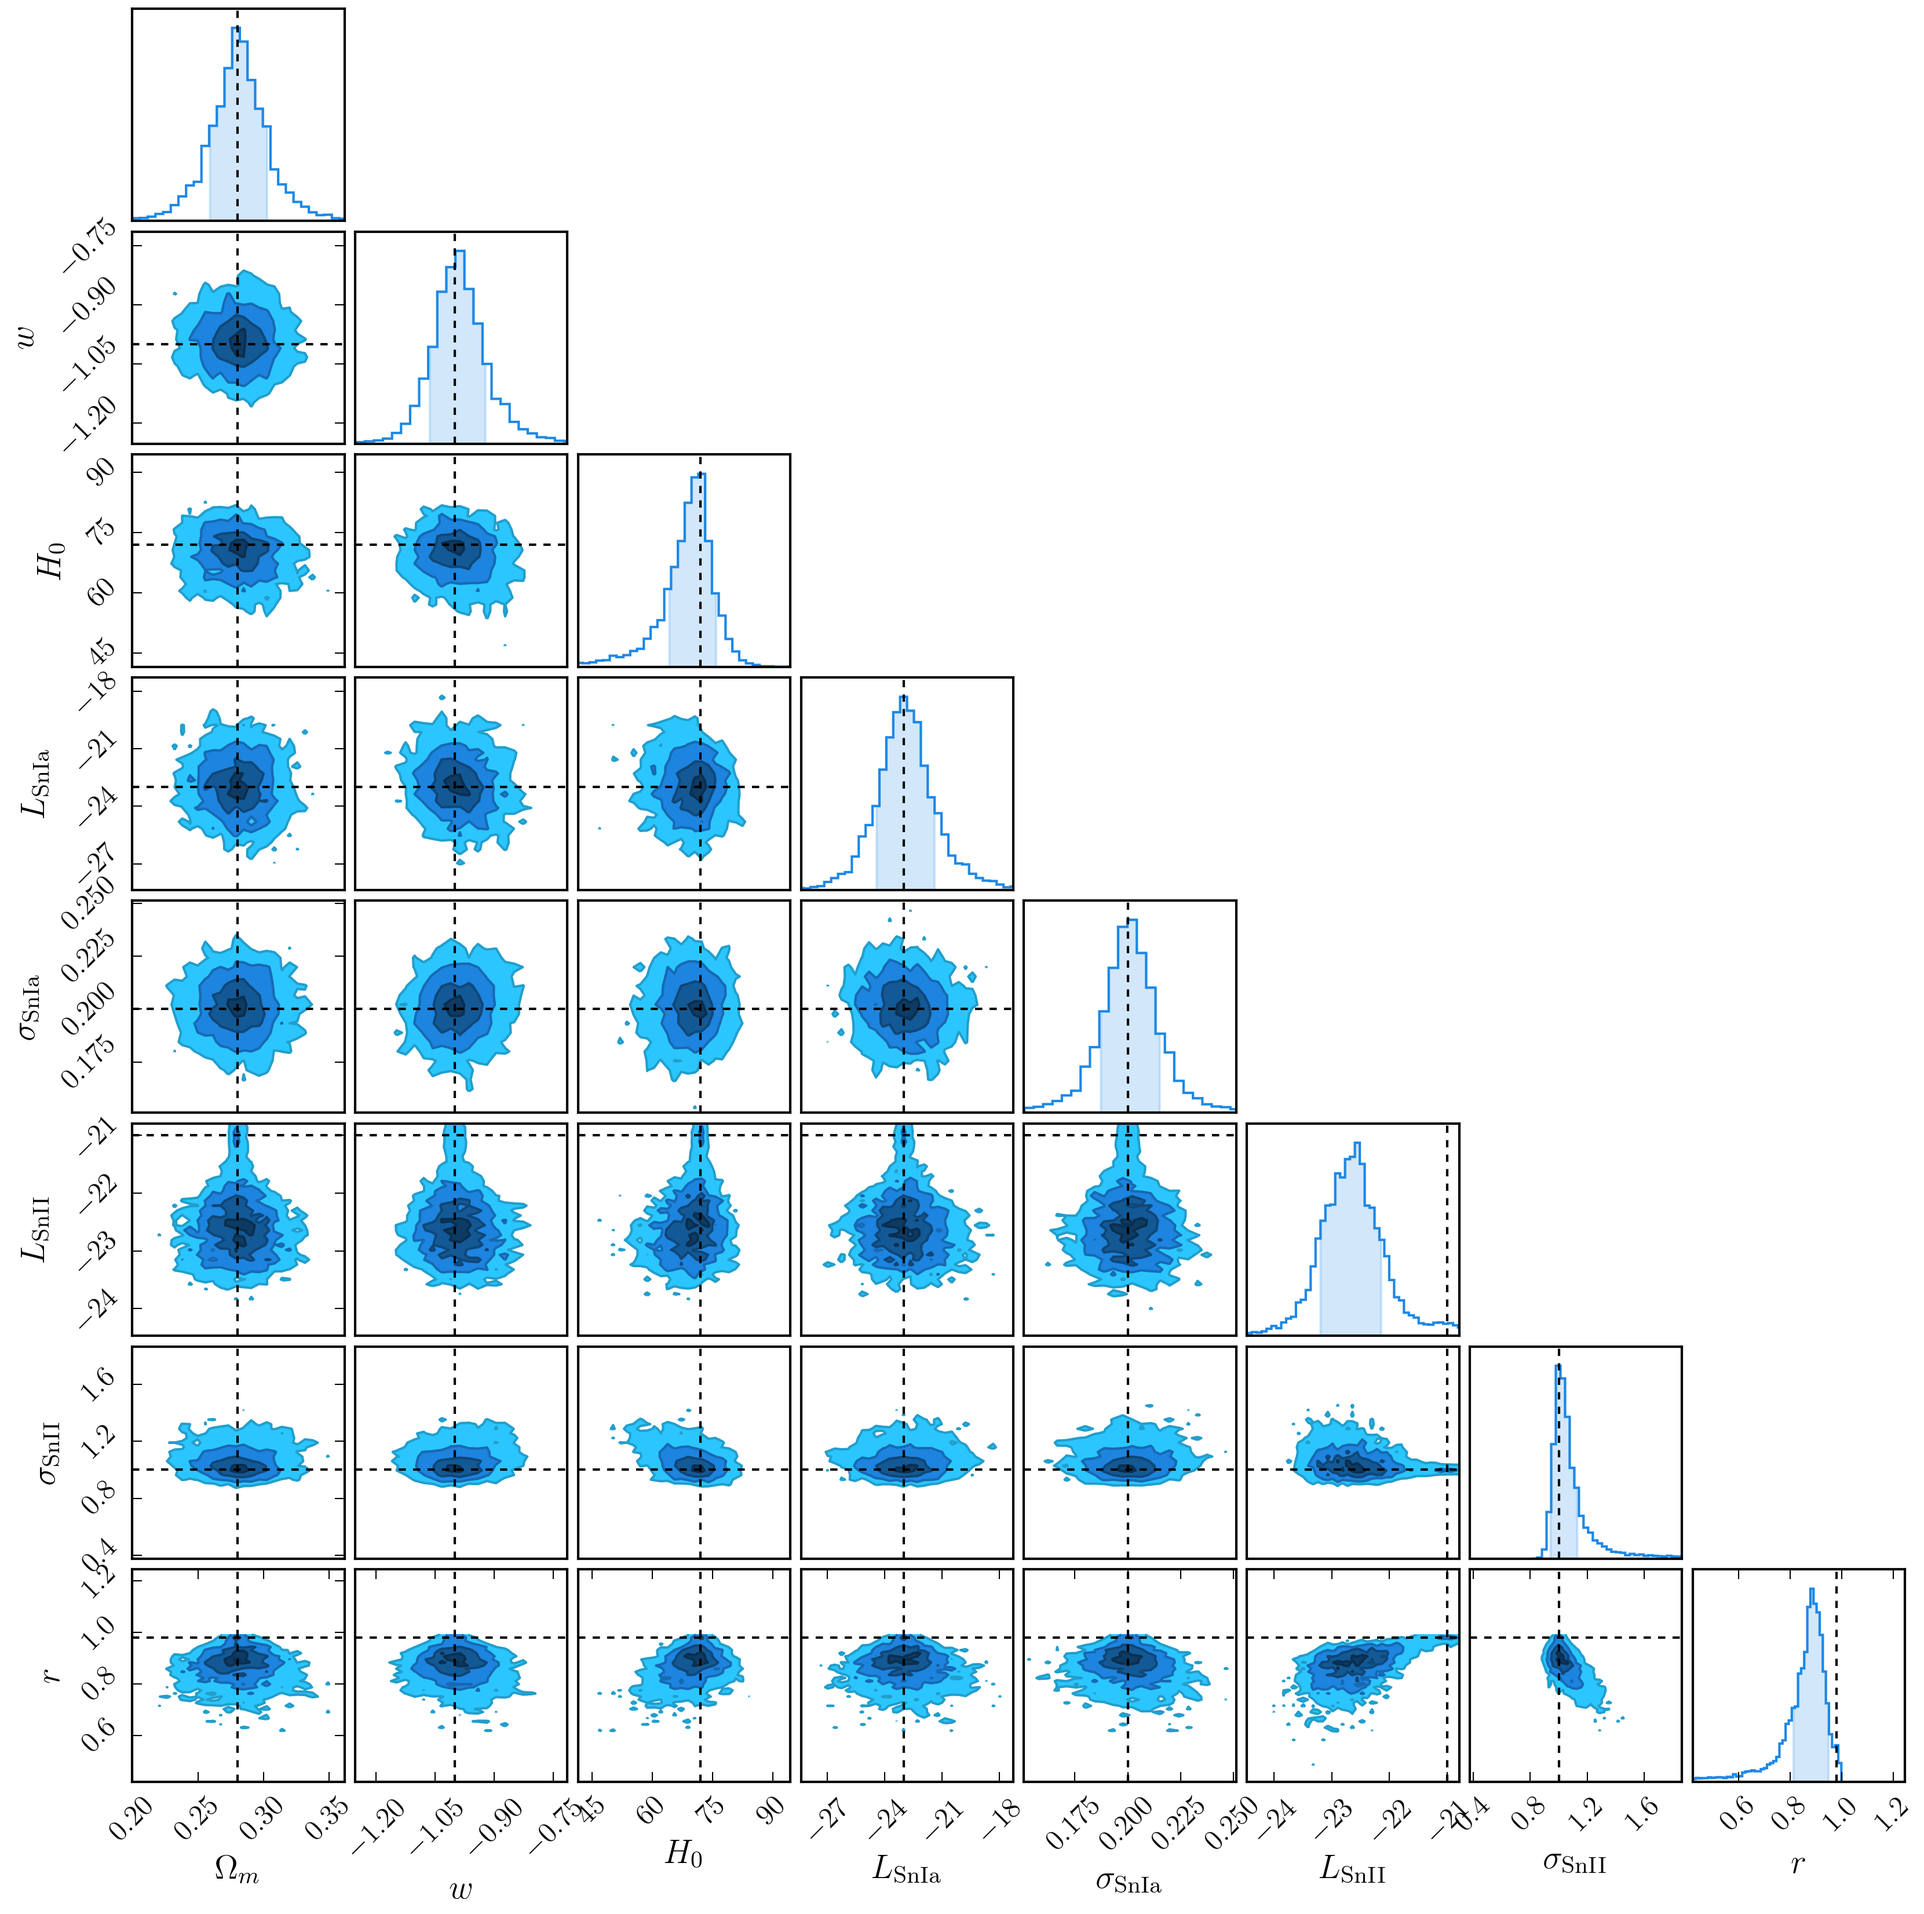
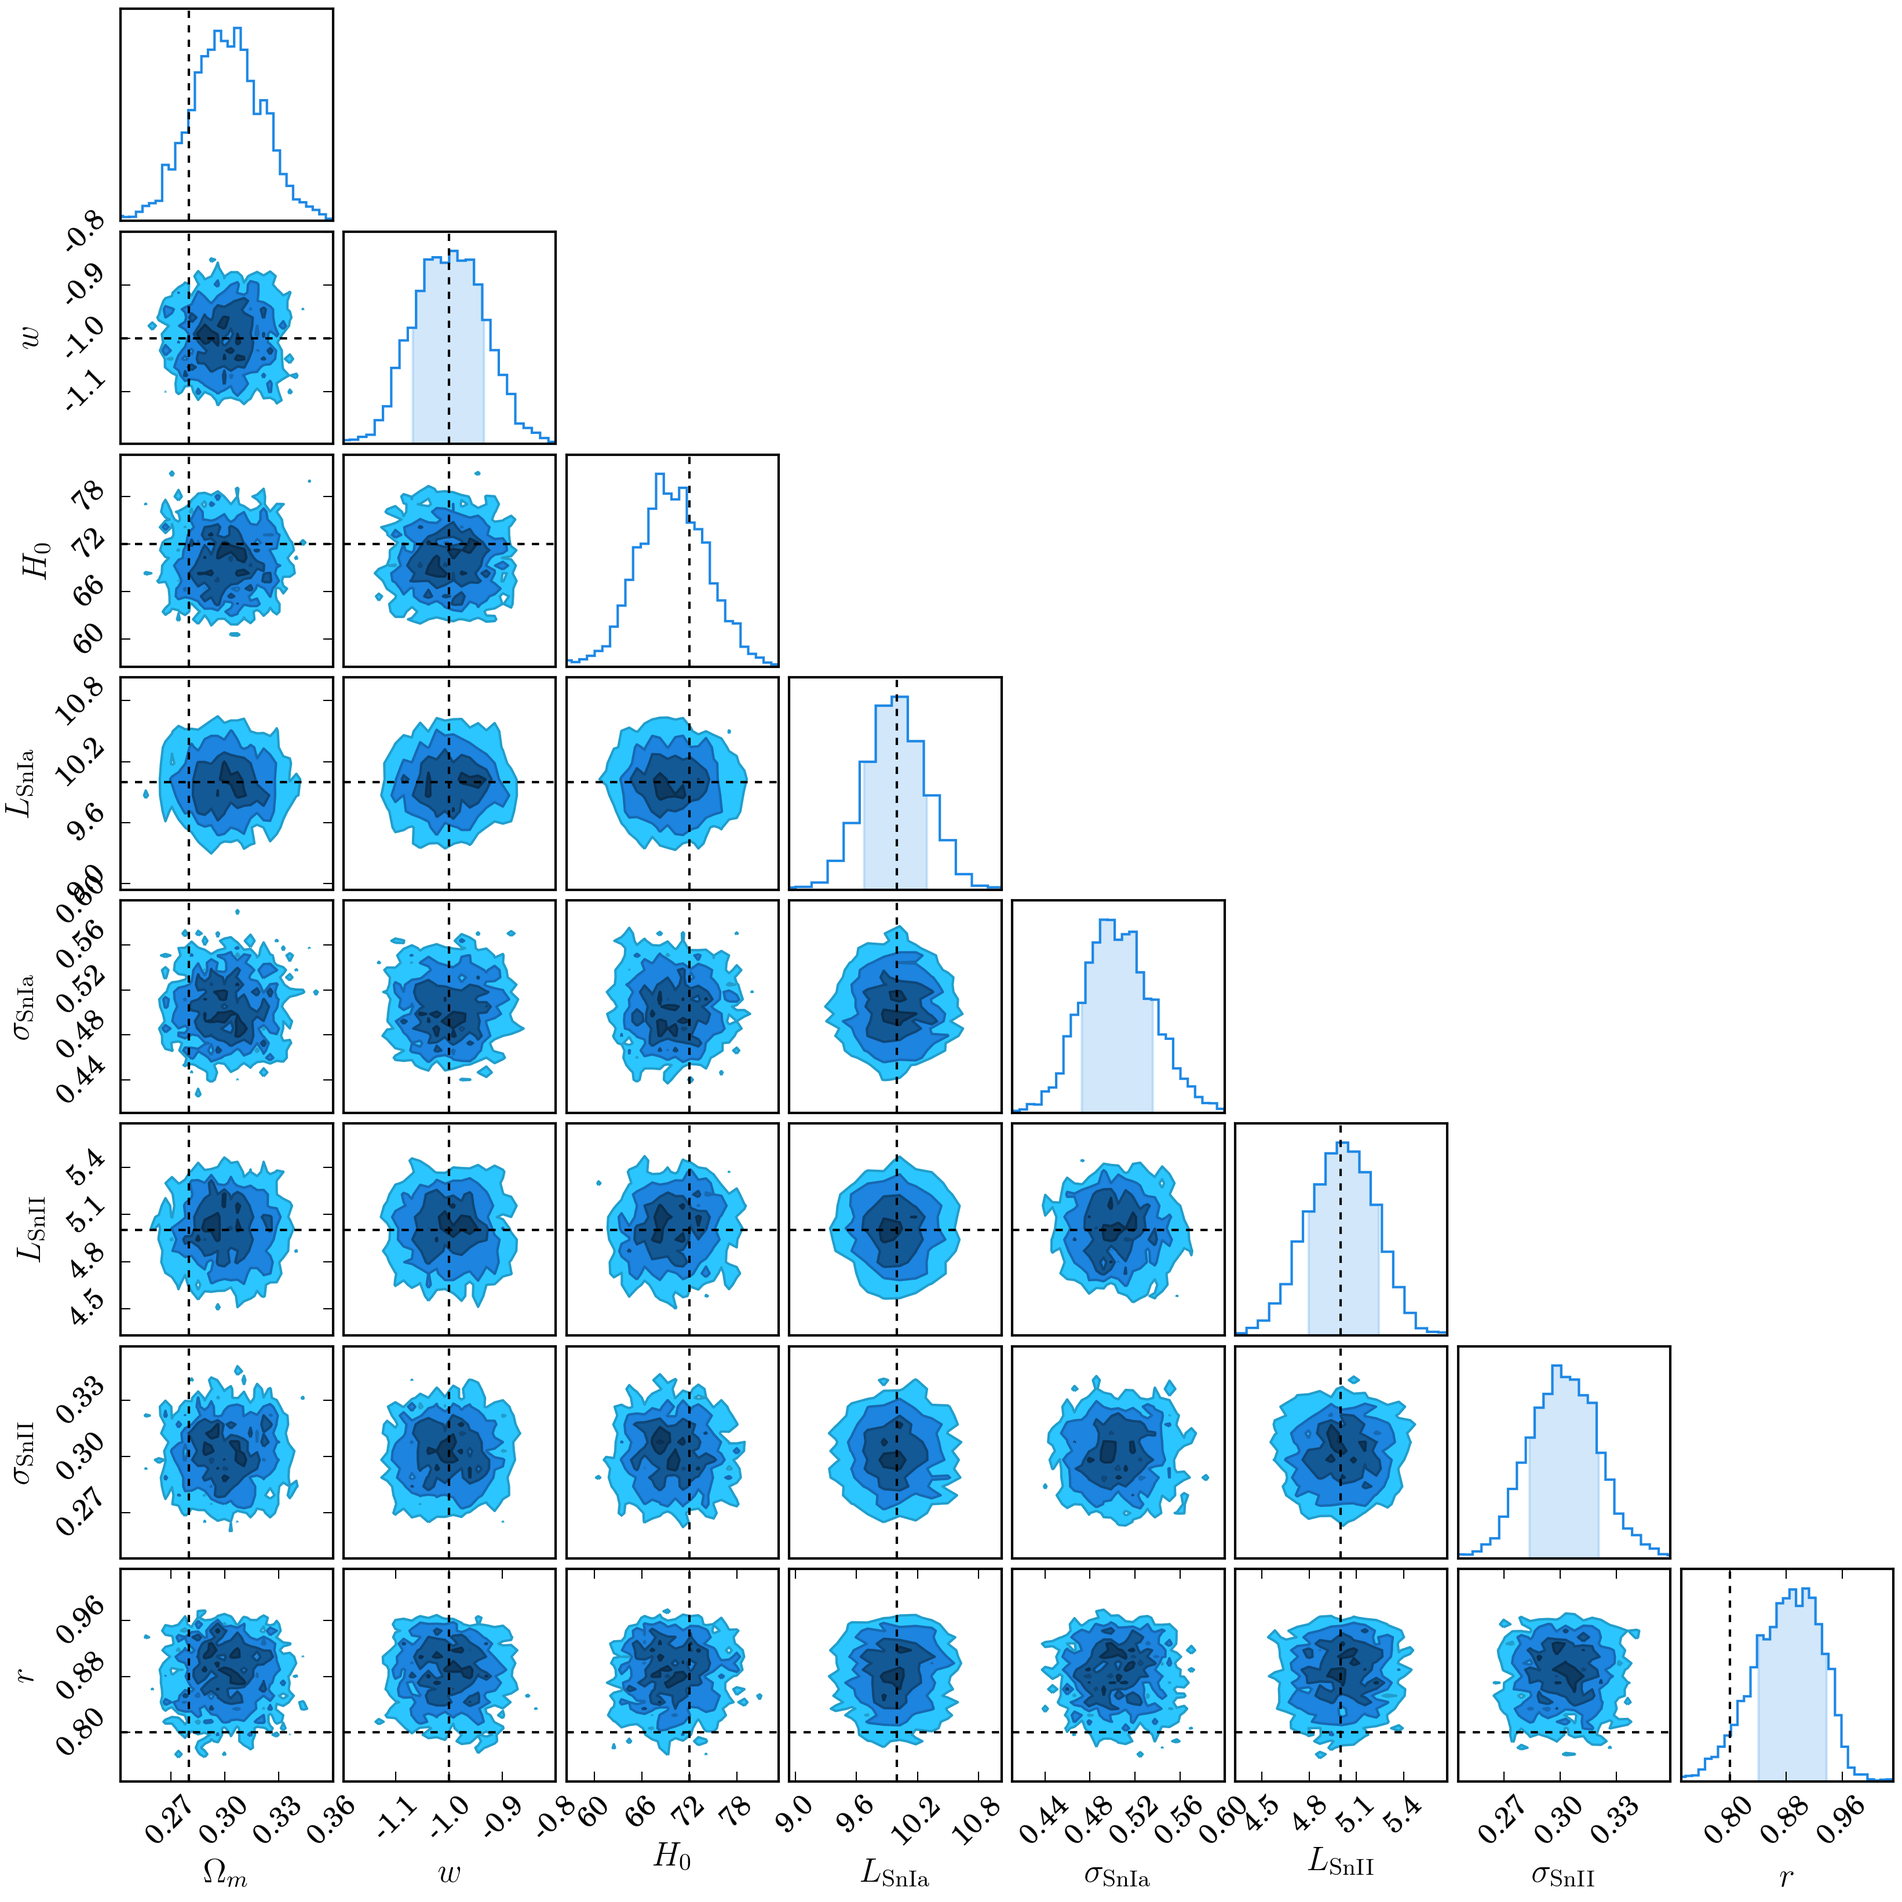
Updates to everything. Starting positions still need work, I need to find an algorithm that doesnt fail at such high dimensions... or write my own.

Changed region(s): [[0.0, 0.0, 1.0, 0.9942]]

diff --git a/dessn/model/model.py b/dessn/model/model.py
@@ -12,7 +12,7 @@ import matplotlib.pyplot as plt
 from matplotlib import rc
 import daft
 import sys
-from scipy.optimize import fmin_bfgs
+from scipy.optimize import fmin
 
 
 class Model(object):
@@ -195,15 +195,28 @@ class Model(object):
         # print(val)#, theta)
         return -val
 
-    def _get_suggestion(self, data):
-        pass
+    def _get_suggestion(self):
+        node_sorted = []
+        for name in self._theta_names:
+            node = self._node_dict[name]
+            if node not in node_sorted:
+                node_sorted.append(node)
+
+        theta = []
+        data = self.data
+        for node in node_sorted:
+            node_data = {key: data[key] for key in data if key in node.get_suggestion_requirements()}
+            temp_arr = node.get_suggestion(node_data)
+            theta += temp_arr
+
+        return theta
 
     def _get_starting_position(self, num_walkers):
         num_dim = len(self._theta_names)
         self.logger.debug("Generating starting guesses")
-        p0 = np.random.rand(num_dim)
-        p0 = np.array([0.28,-1.,72.,-23.,0.2,-21.,1.,0.98,-23.23123649,-22.84376038,-22.70110309,-23.41399701,-22.91474825,-22.86461839,-23.12748741,-23.07945436,-23.02657612,-23.05955818,-23.06180259,-23.33520076,-22.76953369,-22.78407628,-23.16267285,-23.29328487,-22.89578702,-23.11515759,-22.97160937,-23.06386568,-22.86169225,-22.86105017,-23.14511948,-23.27667279,-23.31658768,-22.87792412,-23.23777185,-23.10136327,-23.11926281,-23.01051346,-23.38725596,-22.96224428,-22.8952218,-22.98231558,-23.06217723,-22.98051997,-22.92019073,-23.55451855,-22.60881754,-22.92198134,-23.13048172,-23.07819068,-22.90125164,-23.02322079,-23.40613689,-22.58710143,-23.02210813,-22.79596546,-23.13840997,-22.69272459,1.14274566,1.4588598,1.24525041,1.13527805,0.90494412,1.32719881,0.9314157,1.7943687,1.93095924,0.82853889,1.60427757,1.10490035,1.17928467,1.85863361,0.23496851,0.26554567,0.13841496,1.68197771,1.57849783,1.75302308,1.95937485,1.61840127,0.97681079,1.58300543,0.32472141,1.31584994,0.37237125,1.89487094,1.09151181,0.88785769,0.60265566,1.57104401,0.96668563,1.1800245,0.13570062,1.27350744,1.26298187,1.27217459,1.89312135,1.39545857,0.78306501,0.93036071,1.42549927,0.2144284,1.36685676,1.37421195,0.49972687,0.34495997,0.69931387,0.79105046,1.,1.,1.,1.,1.,1.,1.,1.,1.,1.,1.,1.,1.,1.,1.,1.,1.,1.,1.,1.,1.,1.,1.,1.,1.,1.,1.,1.,1.,1.,1.,1.,1.,1.,1.,1.,1.,1.,1.,1.,1.,1.,1.,1.,1.,1.,1.,1.,1.,1.])
-        optimised = fmin_bfgs(self._get_negative_log_posterior, p0, disp=False)
+        p0 = self._get_suggestion()
+        self.logger.debug("Initial position is:  %s" % p0)
+        optimised = fmin(self._get_negative_log_posterior, p0, disp=True, ftol=0.05, xtol=0.1)
         self.logger.debug("Starting position is: %s" % optimised)
 
         std = np.random.uniform(0.8, 1.2, size=(num_walkers, num_dim))

diff --git a/dessn/model/node.py b/dessn/model/node.py
@@ -52,6 +52,16 @@ class Node(object):
             self.labels = labels
         self.node_name = node_name
 
+    @abc.abstractmethod
+    def get_suggestion_requirements(self):
+        """ Returns suggestion parameter requirements. Must be only observed parameters
+        """
+        return
+
+    @abc.abstractmethod
+    def get_suggestion(self, data):
+        return
+
 
 class NodeObserved(Node):
     """ A node representing one or more observed variables
@@ -75,12 +85,21 @@ class NodeObserved(Node):
         if type(names) == list:
             assert len(names) == len(labels) and len(names) == len(datas), "If you pass in a list of names, you need to pass in a list of data for each name"
         super(NodeObserved, self).__init__(node_name, names, labels, NodeType.OBSERVED)
-        self.datas = datas
+        if isinstance(datas, list):
+            self.datas = datas
+        else:
+            self.datas = [datas]
 
     def get_data(self):
         """ Returns a dictionary containing keys of the parameter names and values of the parameter data object
         """
         return {name: data for name, data in zip(self.names, self.datas)}
+
+    def get_suggestion(self, data):
+        return []
+
+    def get_suggestion_requirements(self):
+        return []
 
 
 class NodeUnderlying(Node):
@@ -100,6 +119,8 @@ class NodeUnderlying(Node):
     labels : str or list[str]
         Latex ready labels for the given names. Used in the PGM and corner plots.
     """
+    __metaclass__ = abc.ABCMeta
+
     def __init__(self, node_name, names, labels):
         super(NodeUnderlying, self).__init__(node_name, names, labels, NodeType.UNDERLYING)
 
@@ -148,6 +169,12 @@ class NodeTransformation(Node):
     def __init__(self, node_name, names, labels):
         super(NodeTransformation, self).__init__(node_name, names, labels, NodeType.TRANSFORMATION)
 
+    def get_suggestion_requirements(self):
+        return []
+
+    def get_suggestion(self, data):
+        return []
+
 
 class NodeLatent(Node):
     """ A node representing a latent, or hidden, variable in our model.
@@ -169,6 +196,8 @@ class NodeLatent(Node):
     labels : str or list[str]
         Latex ready labels for the given names. Used in the PGM and corner plots.
     """
+    __metaclass__ = abc.ABCMeta
+
     def __init__(self, node_name, names, labels):
         super(NodeLatent, self).__init__(node_name, names, labels, NodeType.LATENT)
 

diff --git a/dessn/toy/underlying.py b/dessn/toy/underlying.py
@@ -5,7 +5,6 @@ import numpy as np
 import os
 
 
-
 class Cosmology(NodeUnderlying):
     def __init__(self):
         super(Cosmology, self).__init__("Cosmology", ["omega_m", "w", "H0"], [r"$\Omega_m$", "$w$", "$H_0$"])
@@ -15,8 +14,15 @@ class Cosmology(NodeUnderlying):
             return -np.inf
         return 1
 
+    def get_suggestion_requirements(self):
+        return []
+
+    def get_suggestion(self, data):
+        return [0.3, -1, 70]
+
 
 class SupernovaIaDist(NodeUnderlying):
+
     def __init__(self):
         super(SupernovaIaDist, self).__init__("SNIa", ["snIa_luminosity", "snIa_sigma"], [r"$L_{\rm SnIa}$", r"$\sigma_{\rm SnIa}$"])
 
@@ -24,6 +30,12 @@ class SupernovaIaDist(NodeUnderlying):
         if data["snIa_sigma"] < 0:
             return -np.inf
         return 1
+
+    def get_suggestion_requirements(self):
+        return []
+
+    def get_suggestion(self, data):
+        return [10, 0.5]
 
 
 class SupernovaIIDist(NodeUnderlying):
@@ -34,6 +46,12 @@ class SupernovaIIDist(NodeUnderlying):
         if data["snII_sigma"] < 0:
             return -np.inf
         return 1
+
+    def get_suggestion_requirements(self):
+        return []
+
+    def get_suggestion(self, data):
+        return [5, 0.3]
 
 
 class SupernovaRate(NodeUnderlying):
@@ -56,18 +74,16 @@ class SupernovaRate(NodeUnderlying):
         fig.savefig(f, dpi=300, transparent=True, bbox_inches="tight")
 
     def get_log_prior(self, data):
-        r""" Here we model the prior on the supernova rate as a Beta function,
-        parametrised as :math:`{\rm Beta}(\alpha=30, \beta=2)`.
-
-        The probability density function is visualised below, where :math:`r` represents
-        the overall ratio of type Ia supernova over all supernova.
-
-        .. figure::     ../plots/SupernovaRateDist.png
-            :align:     center
-        """
         r = data["sn_rate"]
-        return np.log(self.b.pdf(r))
+        if r > 1 or r < 0:
+            return -np.inf
+        return 1
 
+    def get_suggestion_requirements(self):
+        return []
+
+    def get_suggestion(self, data):
+        return [0.9]
 
 if __name__ == "__main__":
     rate = SupernovaRate()

diff --git a/dessn/toy/edges.py b/dessn/toy/edges.py
@@ -23,7 +23,7 @@ class ToCount(Edge):
 
         """
         efficiency = 0.9
-        conversion = 1000
+        conversion = 1e10
         flux = data["flux"]
         f = data["ocount"] / efficiency / conversion
         fe = np.sqrt(data["ocount"]) / efficiency / conversion
@@ -103,8 +103,8 @@ class ToLuminosity(Edge):
         sn_type = 1.0 * (np.sign(data["type"]) == 1.0)
 
         # Note that we are working with arrays for type and luminosity, one element per supernova
-        snIa_mask = (sn_type == 0)
-        snII_mask = (sn_type == 1)
+        snIa_mask = (sn_type == 1)
+        snII_mask = (sn_type == 0)
 
         luminosity = data["luminosity"]
         snIa_mean = data["snIa_luminosity"]
@@ -136,10 +136,16 @@ class ToType(Edge):
         .. math::
             P(T_o|T) = 0.1 + 0.8\delta_{T_o,T}
         """
-        sn_type = 1.0 * (np.sign(data["type"]) == 1.0)
+        # sn_type = 1.0 * (np.sign(data["type"]) == 1.0)
+        sn_type = np.round(data["type"])
 
         o_type = data["otype"]
         probs = 0.9 * (sn_type == o_type) + 0.1 * (sn_type != o_type)
+
+        # Adding constraints
+        mask = (data["type"] > 1.4) | (data["type"] < -0.4)
+        if mask.sum() > 0:
+            return -np.inf
 
         return np.sum(np.log(probs))
 
@@ -167,9 +173,9 @@ class ToRate(Edge):
         if data["sn_rate"] < 0 or data["sn_rate"] > 1:
             return -np.inf
 
-        sn_type = 1.0 * (np.sign(data["type"]) == 1.0)
-        n_snIa = (sn_type != 1.0).sum()
-        n_snII = (sn_type == 1.0).sum()
+        sn_type = np.round(data["type"])
+        n_snIa = (sn_type == 1.0).sum()
+        n_snII = (sn_type != 1.0).sum()
         n = sn_type.size
         r = data["sn_rate"]
 

diff --git a/dessn/toy/toyModel.py b/dessn/toy/toyModel.py
@@ -23,7 +23,6 @@ class ToyModel(Model):
         z_o_err = observations["z_o_err"]
         count_o = observations["count_o"]
         type_o = observations["type_o"]
-
         n = z_o.size
 
         self.add_node(ObservedType(type_o))
@@ -60,16 +59,16 @@ if __name__ == "__main__":
     plot_file = os.path.abspath(dir_name + "/../../plots/toyModelChain.png")
     walk_file = os.path.abspath(dir_name + "/../../plots/toyModelWalks.png")
 
-    vals = [0.28, -1.0, 72, -23, 0.2, -20, 0.5, 0.8]
+    vals = [0.28, -1.0, 72, 10, 0.1, 5, 0.2, 0.8]
     simulation = Simulation()
     observations, theta = simulation.get_simulation(*vals, num_trans=50)
-
+    print(observations)
     toy_model = ToyModel(observations)
     # fig = toy_model.get_pgm(pgm_file)
-    if False:
-        toy_model.fit_model(num_steps=500, num_burn=50, temp_dir=temp_dir, save_interval=60)
+    if True:
+        toy_model.fit_model(num_steps=160, num_burn=100, temp_dir=temp_dir, save_interval=20)
         chain_consumer = toy_model.get_consumer()
-        chain_consumer.plot_walks(display=False, filename=walk_file, figsize=(8, 12))
+        # chain_consumer.plot_walks(display=False, filename=walk_file, figsize=(8, 12))
         chain_consumer.configure_contour(cloud=False)
         chain_consumer.plot(display=False, filename=plot_file, figsize="grow", truth=vals)
 

diff --git a/dessn/toy/latent.py b/dessn/toy/latent.py
@@ -9,6 +9,12 @@ class Redshift(NodeLatent):
     def get_num_latent(self):
         return self.n
 
+    def get_suggestion_requirements(self):
+        return ["oredshift"]
+
+    def get_suggestion(self, data):
+        return data["oredshift"].tolist()
+
 
 class Luminosity(NodeLatent):
     def __init__(self, n):
@@ -17,6 +23,13 @@ class Luminosity(NodeLatent):
 
     def get_num_latent(self):
         return self.n
+
+    def get_suggestion_requirements(self):
+        return ["otype"]
+
+    def get_suggestion(self, data):
+        typeIa = data["otype"] == 1.0
+        return (typeIa * 10 + (1 - typeIa) * 5.0).tolist()
 
 
 class Type(NodeLatent):
@@ -27,4 +40,8 @@ class Type(NodeLatent):
     def get_num_latent(self):
         return self.n
 
+    def get_suggestion_requirements(self):
+        return ["otype"]
 
+    def get_suggestion(self, data):
+        return data["otype"].tolist()

diff --git a/dessn/model/edge.py b/dessn/model/edge.py
@@ -47,12 +47,6 @@ class Edge(object):
         """
         return
 
-    @abc.abstractmethod
-    def get_start_suggestion(self, data):
-        r""" Suggest a starting position by injecting it into the data
-        """
-        return
-
 
 class EdgeTransformation(Edge):
     """ This specialised edge is used to connect to transformation nodes.

diff --git a/dessn/simulation/simulation.py b/dessn/simulation/simulation.py
@@ -11,7 +11,7 @@ class Simulation(object):
         self.logger.info('Getting data for %d transients' % num_trans)
 
         efficiency = 0.9
-        conversion = 1000
+        conversion = 1e10
 
         np.random.seed(0)
 
